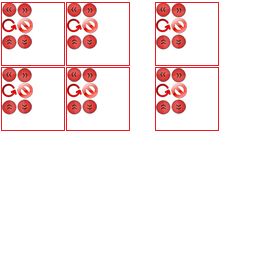
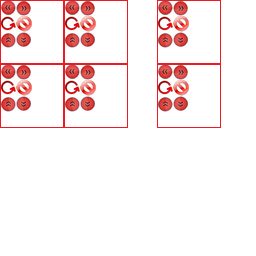
Fixed indecent paddings in framepacker.

Changed region(s): [[0.0, 0.0, 0.5312, 0.5312], [0.5938, 0.0, 0.875, 0.5312]]

diff --git a/include/3rdparty/framepacker/framepacker.hpp b/include/3rdparty/framepacker/framepacker.hpp
@@ -136,7 +136,7 @@ struct rect {
 	}
 
 	vec2 size(void) const {
-		return vec2(max.x - min.x + 1, max.y - min.y + 1);
+		return vec2(max.x - min.x, max.y - min.y);
 	}
 
 	rect add(int p) const {
@@ -309,8 +309,8 @@ struct block {
 		} else {
 			valid.min_x(0);
 			valid.min_y(0);
-			valid.max_x(texture->width() - 1);
-			valid.max_y(texture->height() - 1);
+			valid.max_x(texture->width());
+			valid.max_y(texture->height());
 		}
 	}
 

diff --git a/plugins/atlasgen/growingbinpacker/growingbinpacker.cpp b/plugins/atlasgen/growingbinpacker/growingbinpacker.cpp
@@ -89,7 +89,7 @@ growingbinpacker::GrowingBinPacker::GrowingBinPacker()
 void growingbinpacker::GrowingBinPacker::pack(Atlas& atlas, QImage*& image)
 {
     framepacker::packer<growingbinpacker::GrowingBinPacker::T> packer;
-    packer.padding = 1;
+    packer.padding = 0;
     packer.alpha_trim = false;
     packer.allow_rotate = false;
     
